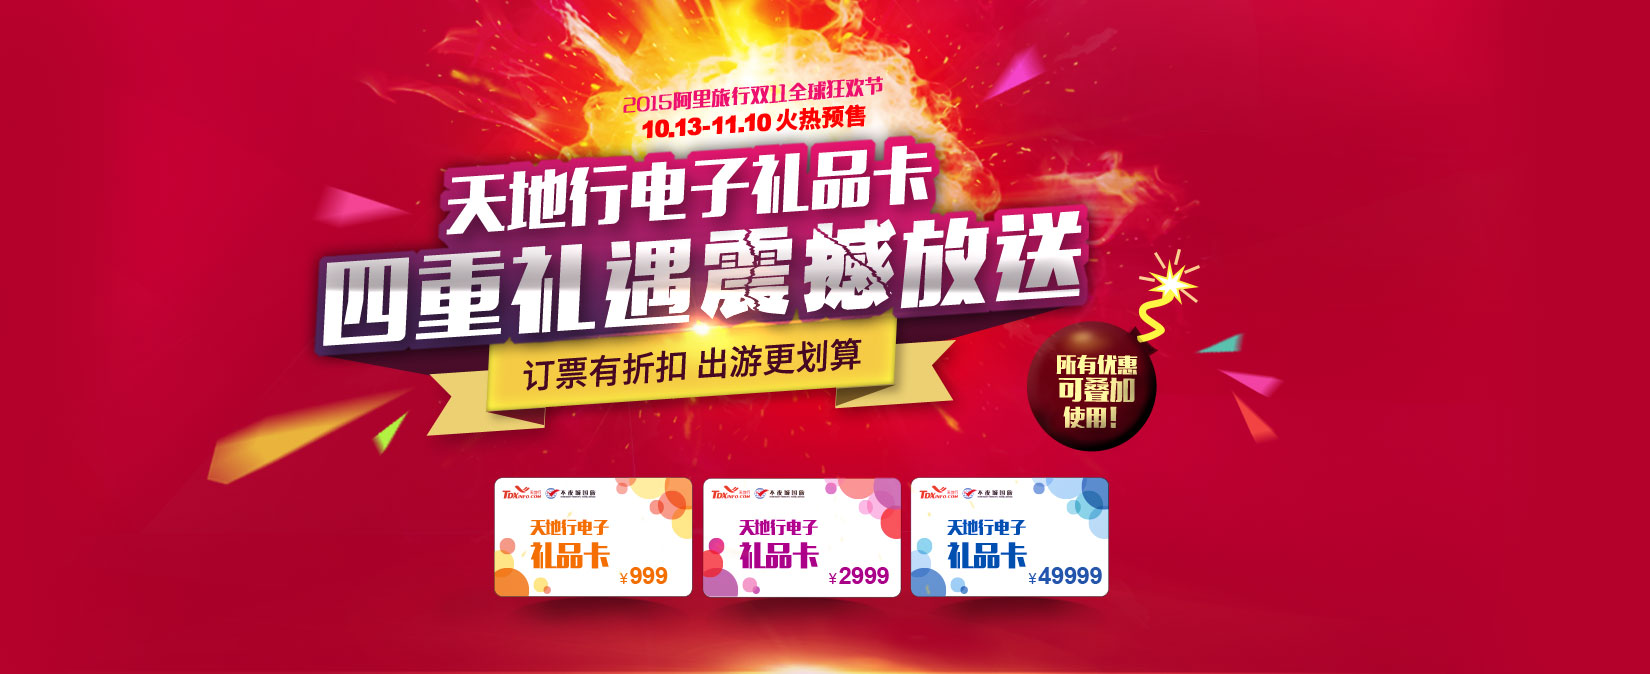
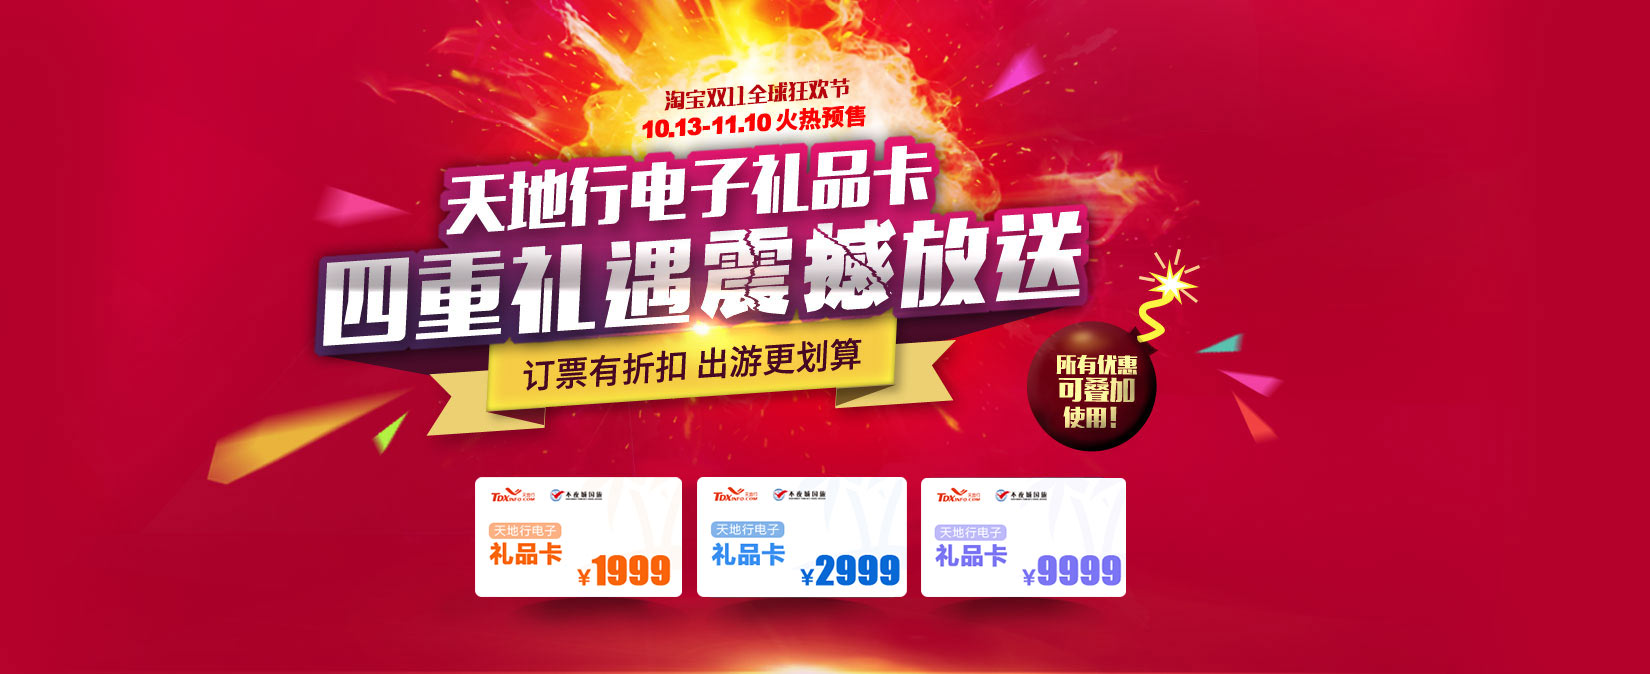
做双十一的APP页面

diff --git a/static/special/source/app_shuang11.html b/static/special/source/app_shuang11.html
@@ -1,0 +1,108 @@
+<!DOCTYPE html>
+<html lang="zh-cn">
+  <head>
+    <meta charset="utf-8">
+    <meta http-equiv="X-UA-Compatible" content="IE=edge">
+    <meta name="viewport" content="width=device-width, initial-scale=1.0, maximum-scale=1.0, user-scalable=no">
+    <meta name="format-detection" content="telephone=no" />
+    <link rel="stylesheet" type="text/css" href="../css/appSpecial.css">
+
+    <title>双十一天地行电子礼品卡</title>
+  </head>
+  <body>
+      <!--<div class="flight-wrapper" id="wrapper">
+          <div class="flight-top-banner">
+            <div class="banner-image"></div>
+          </div>
+          <div class="flight-activity-container">
+            <div class="cont">2015月6月1日至6月30日，注册用户通过天地行APP采购国内、国际机票，即享以下奖励，退票、当日作废不计返利范畴。</div>
+            <div class="reward-block">
+              <table class="reward-table">
+                <caption>阶梯奖励方案</caption>
+                <colgroup>
+                  <col width="50%"/>
+                  <col/>
+                </colgroup>
+                <thead>
+                  <tr>
+                    <th>采购期间机票累计<br>采购数量（张）</th>
+                    <th>按票面总额<br>返佣比例（‰）</th>
+                  </tr>
+                </thead>
+                <tbody>
+                  <tr>
+                    <td>500</td>
+                    <td>0.1</td>
+                  </tr>
+                  <tr>
+                    <td>1000</td>
+                    <td>0.3</td>
+                  </tr>
+                  <tr>
+                    <td>1600</td>
+                    <td>0.5</td>
+                  </tr>
+                  <tr>
+                    <td>2500</td>
+                    <td>0.7</td>
+                  </tr>
+                  <tr>
+                    <td>3600</td>
+                    <td>/</td>
+                  </tr>
+                </tbody>
+              </table>
+            </div>
+            <p class="note">注：本活动最终解释权归天地行所有。</p>
+          </div>
+      </div>-->
+
+      
+      <div class="wrapperContent">
+          <div class="firstModule">
+              <img class="bannerImg" src="../images/mobile/app_shuang11Banner.jpg">
+          </div>
+          <div class="secondModule">
+              <img class="giftImg" src="../images/mobile/app_shuang11_01.jpg">
+          </div>
+          <div class="thirdModule">
+              <img class="img02" src="../images/mobile/app_shuang11_02.jpg">
+              <img class="img03" src="../images/mobile/app_shuang11_03.jpg">
+              <img class="img04" src="../images/mobile/app_shuang11_04.jpg">
+              <img class="img05" src="../images/mobile/app_shuang11_05.jpg">
+              <img class="img06" src="../images/mobile/app_shuang11_06.jpg">
+              <img class="img07" src="../images/mobile/app_shuang11_07.jpg">
+              <img class="img08" src="../images/mobile/app_shuang11_08.jpg">
+              <img class="img09" src="../images/mobile/app_shuang11_09.jpg">
+          </div>
+          <div class="bottomBg"></div>
+      </div>
+      
+
+      <!--<script type="text/javascript">
+          var root = document.getElementsByTagName("html")[0];
+          var w = window.innerWidth >= 640 ? 640 : window.innerWidth;
+          root.style.fontSize = (w / 320) * 20 + "px";
+          document.getElementById("wrapper").style.minHeight = window.innerHeight + "px";
+      </script>-->
+      
+      <script type="text/javascript">
+          var root = document.getElementsByTagName("html")[0],
+                  w = window.innerWidth >= 640 ? 640 : window.innerWidth,
+                  h = window.innerHeight >= 1136 ? 1136 : window.innerHeight,
+                  base_ratio = 640 / 1136,
+                  actual_ratio = window.innerWidth / window.innerHeight;
+
+          if (actual_ratio >= base_ratio) {  // 宽屏，按高度算
+
+              root.style.fontSize = (h / 568) * 20 + "px";
+
+          } else if (actual_ratio < base_ratio) {  //  长屏，按宽度算
+
+              root.style.fontSize = (w / 320) * 20 + "px";
+          }
+
+          root.style.height = window.innerHeight + "px";
+      </script>
+  </body>
+</html>

diff --git a/static/special/css/appSpecial.css b/static/special/css/appSpecial.css
@@ -1,5 +1,9 @@
 @charset "utf-8";
 
+*{
+    margin: 0;
+    padding: 0;
+}
 img {
 	width: 100%;
 }
@@ -161,3 +165,72 @@ table{border-collapse:collapse;border-spacing:0;}
 	padding: 0.35rem 0;
 	border: 1px solid #f1ae81;
 }
+
+
+
+/*  双11电子礼品卡 S */
+.wrapperContent{
+    margin: 0 auto;
+}
+.bannerImg,
+.giftImg,
+.img02,
+.img03,
+.img04,
+.img05,
+.img06,
+.img07,
+.img08,
+.img09{
+    display: block;
+    border: 0;
+    width: 16rem;
+    margin: 0 auto;
+}
+
+.firstModule{
+    background-color: #a60028;
+}
+.firstModule .bannerImg{
+    height: 9.875rem;
+}
+.secondModule{
+    background-color: #dd3737;
+}
+.secondModule .giftImg{
+    height: 10.625rem;
+}
+.thirdModule{
+    background-color: #fbd85b;
+}
+.thirdModule .img02{
+    height: 12.9rem;
+}
+.thirdModule .img03{
+    height: 18.375rem;
+}
+.thirdModule .img04{
+    height: 18.925rem;
+}
+.thirdModule .img05{
+    height: 13.5rem;
+}
+.thirdModule .img06{
+    height: 11.575rem;
+}
+.thirdModule .img07{
+    height: 13.9rem;
+}
+.thirdModule .img08{
+    height: 11.85rem;
+}
+.thirdModule .img09{
+    height: 11.525rem;
+}
+.bottomBg{
+    height: 45px;
+    background-color: #dd3737;
+}
+
+
+/*  双11电子礼品卡 E */
